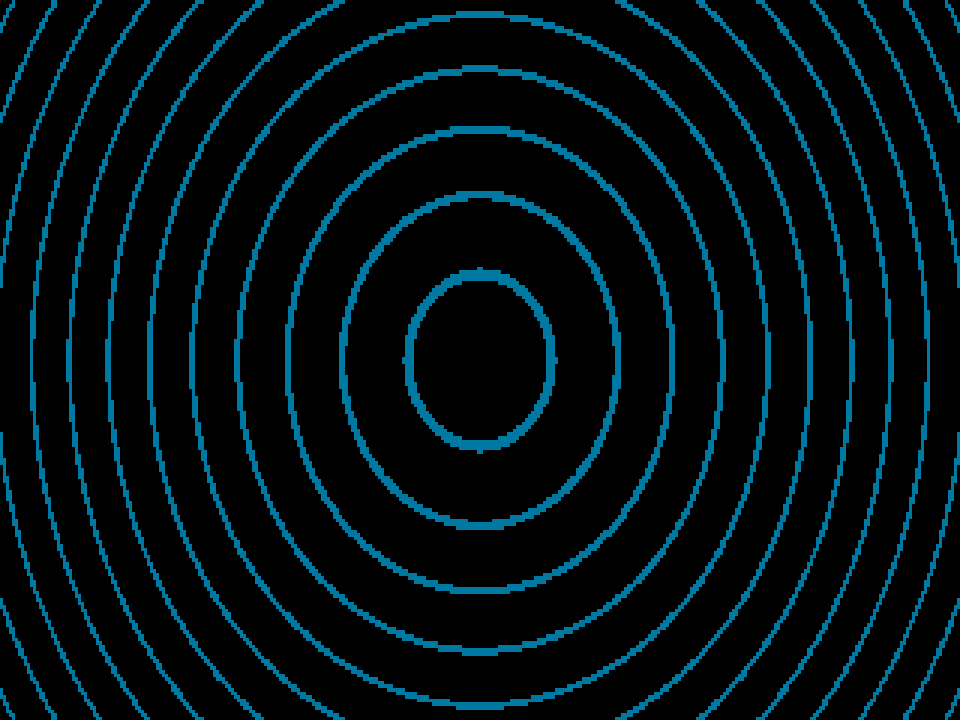
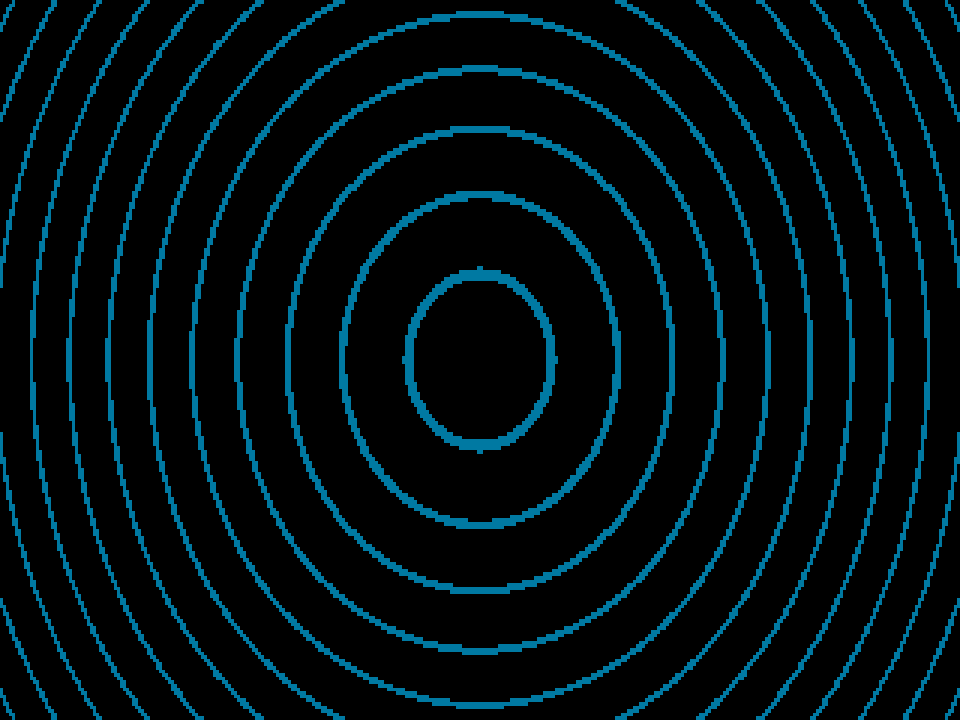
After the code review merge: remake docs pictures, update state.md
- All scene pictures in docs/images regenerated from the merged app (the 1993 look of several scenes
  changed, and --snapshot now samples pixel centres)
- state.md: the code review is done (24 fixes, 253 self-test checks); open question on plasma timing;
  possible next steps

diff --git a/state.md b/state.md
@@ -705,11 +705,24 @@ Ranks 3-6 were judged from file sizes and may swap once read. 7 and 8 share one 
 
 ## Next steps
 The planned list of scenes is complete (2026-11-14).
-- NEXT: the user's planned code review, in progress. Techno Bars is DONE (2026-11-14; 4 fixes, see its
-  notes). Still to do: run `/code-review` over the other scenes and `Core/`, paying most
-  attention to what each scene page lists under "What was not checked" (ports checked by reading only:
-  Bouncing Dots, the C parts of the 3D scenes; the plasma's plane layout; the VISU scene
-  programs' ordering and pacing) and to the code shared between scenes.
+- DONE (2026-11-14): the code review. Techno Bars was reviewed first, then five parallel sessions, each in its
+  own worktree, reviewed everything else against the original source (early scenes; the plasma pair; starfield,
+  landscape and glenz; the 3D engine with ships and city; the shared core and app). Their branches merged
+  cleanly into main. 24 proven bugs fixed, each with a self-test check; the self-test went from 200 to 253
+  checks. Every scene page now has a "Code review" section saying what was found, what was confirmed, and
+  what is still unverified. All docs pictures were remade afterwards.
+  Notable: Dot Tunnel's 1993 look now replays the original's dot-by-dot erasing (about one dot in twenty is
+  missing each frame, as in 1993); every Hidden Starfield dot had been one step out of place; the plasma's
+  sideways shift was paired with the wrong frame; the 3D loader no longer crashes on damaged files.
+- OPEN QUESTION for the user (from the Plasma review, see docs/scenes/plasma.md "What was not checked"): the
+  plasma's section timings may be in music ticks (about 1/52 s), not screen refreshes (1/70 s). If so the
+  original's sections were about a third longer (whole scene about 43 s, not 32). Not proven; nothing changed.
+  The same question may apply to other music-timed lengths. Best settled when music is added.
+- NEXT, if the user wants it: a `/simplify` pass. Each scene page and the core notes list "Possible
+  tidy-ups" that the review deliberately left alone.
+- Still never done: comparing any scene with the original program running. The user's own copy of the
+  released demo is in `../second-reality-original/` (outside this repository); it could be run in a DOS
+  emulator for a side-by-side check.
 - Waiting on the user, by eye in the running app: the 3D City's fades (`City3DModel.fadeInSteps`,
   `fadeOutSteps`, `darkSteps`) and whether the evened-out camera roll looks right
   (`City3DModel.smoothCameraRoll`); Ships Fly-by's pause (`ShipsFlybyModel.pauseSteps`) and scaled-up background.

diff --git a/docs/scenes/plasma.md b/docs/scenes/plasma.md
@@ -216,8 +216,7 @@ None of this has been compared with the original program running.
   not 32). It is not proven: the player itself is only in the release as a compiled library, and the
   tempo may change within the tune. Nothing was changed; the scene still uses 1/70 second.
 - **The palettes and the fade** were ported from `PLZ.C` and `COPPER.ASM` by reading (now twice).
-- The picture `docs/images/plasma-classic.png` was made before fix 1 and differs from the current 1993
-  look at pixel level only.
+- The pictures in `docs/images/` were remade after the review was merged, so they show the corrected 1993 look.
 
 ## Differences from the original, on purpose
 
